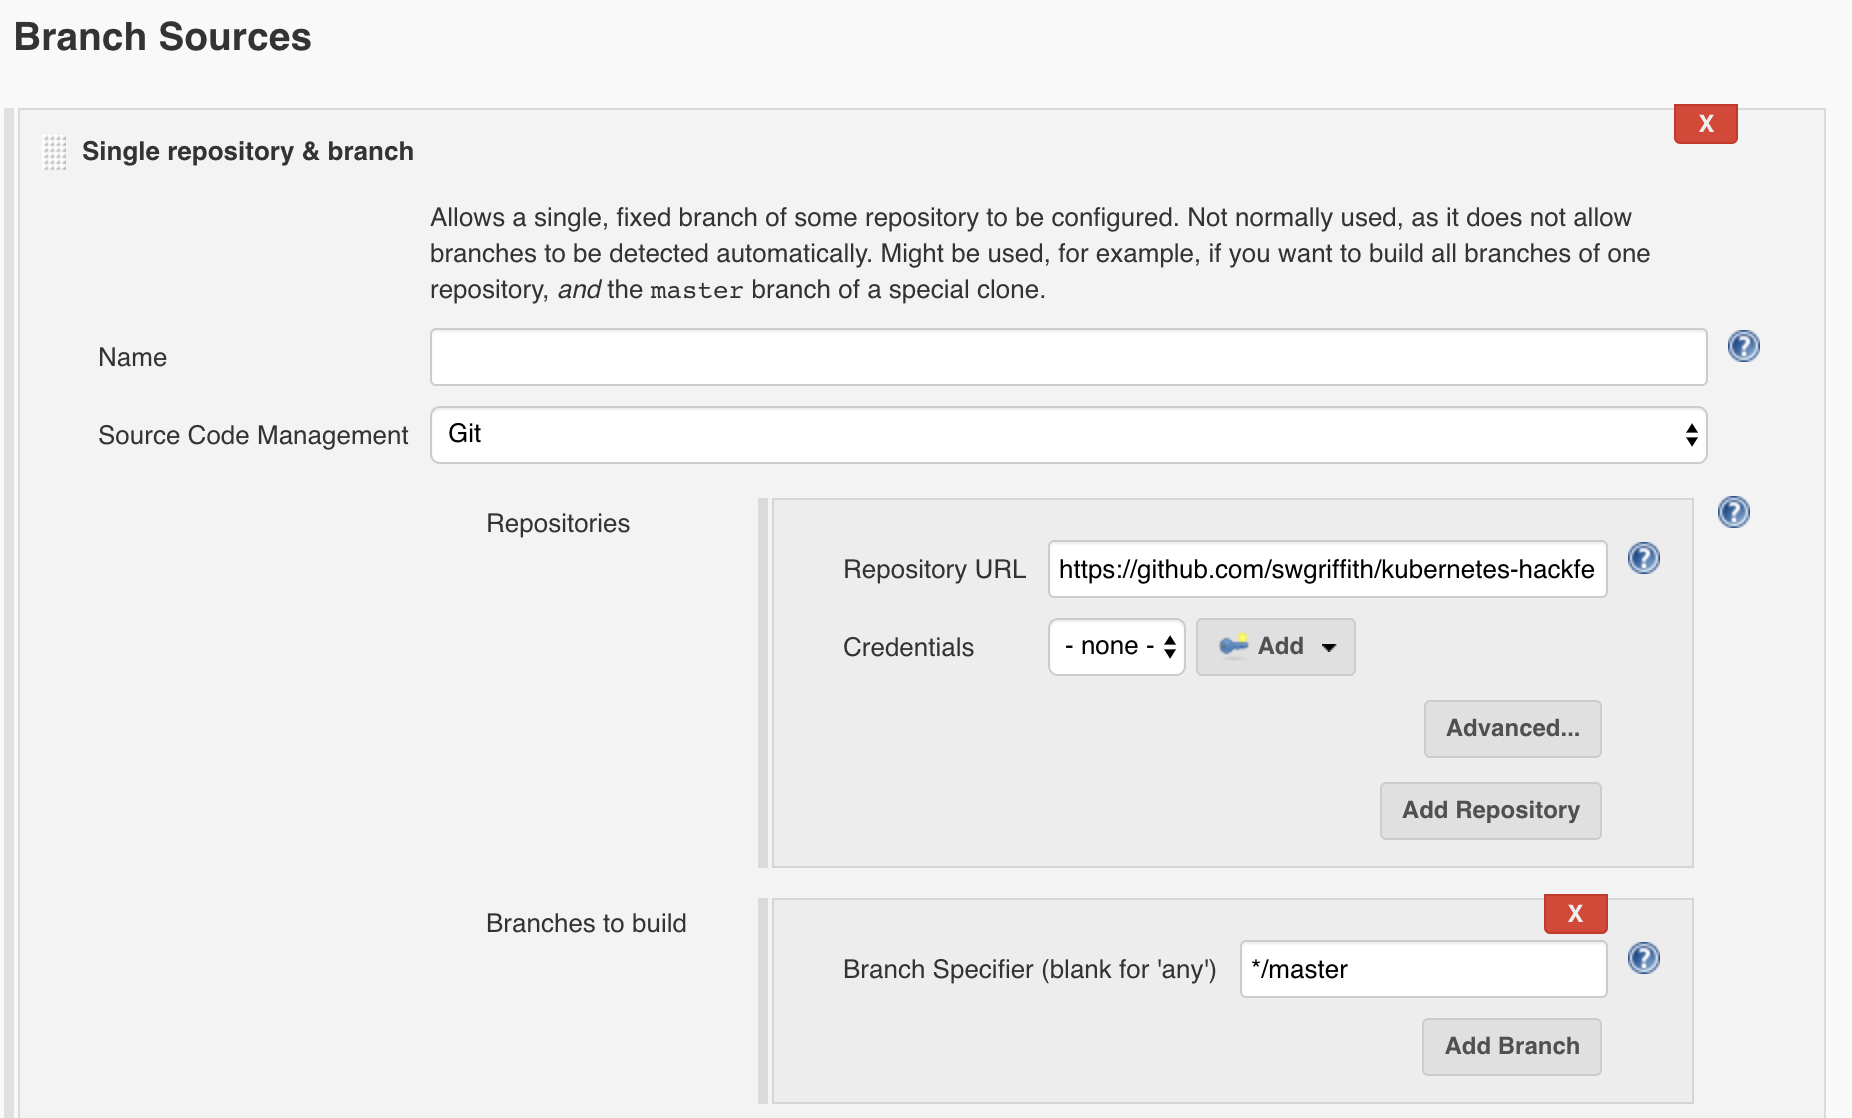
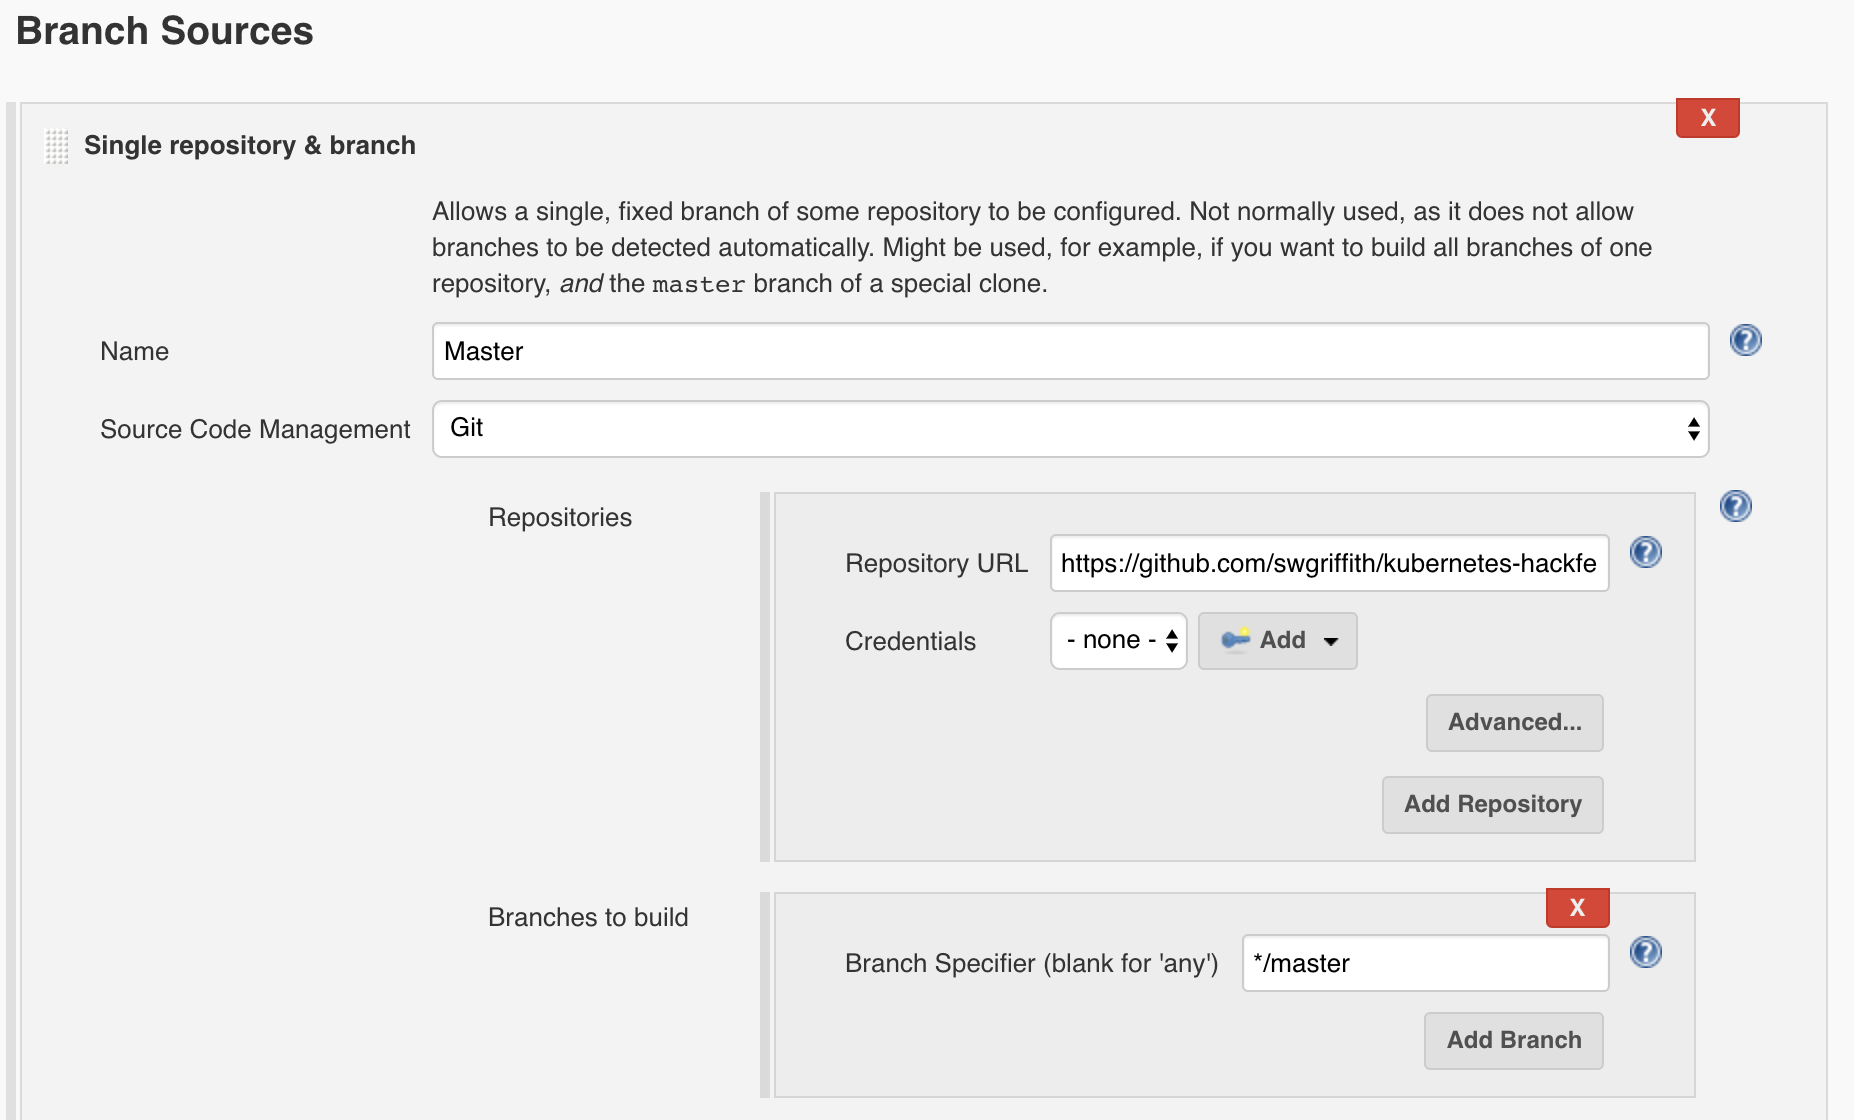
updated repo add image and made other minor fixes to the steps

diff --git a/labs/cicd-automation/jenkins/README.md b/labs/cicd-automation/jenkins/README.md
@@ -142,13 +142,13 @@ In order to trigger this pipeline you will need your own Github account and fork
 
 1. Enter "aks-hackfest" for Item Name
 
-1. Select `Multibrach Pipeline`
+1. Select `Multibrach Pipeline` and then click Ok
 
 1. Under Branch Sources `Click Add` -> `Single repository & branch`
 
-   ![Jenkins Branch Resource](./img/branch-resource.png)
+1. Name the repo and branch 'Master' and then in 'Replository URL' enter `your forked git repo`
 
-1. In 'Replository URL' enter `your forked git repo`
+   ![Jenkins Branch Resource](./img/branch-resource.png)
 
 1. Leave the 'Branch Specifier' as '*/master'
 
